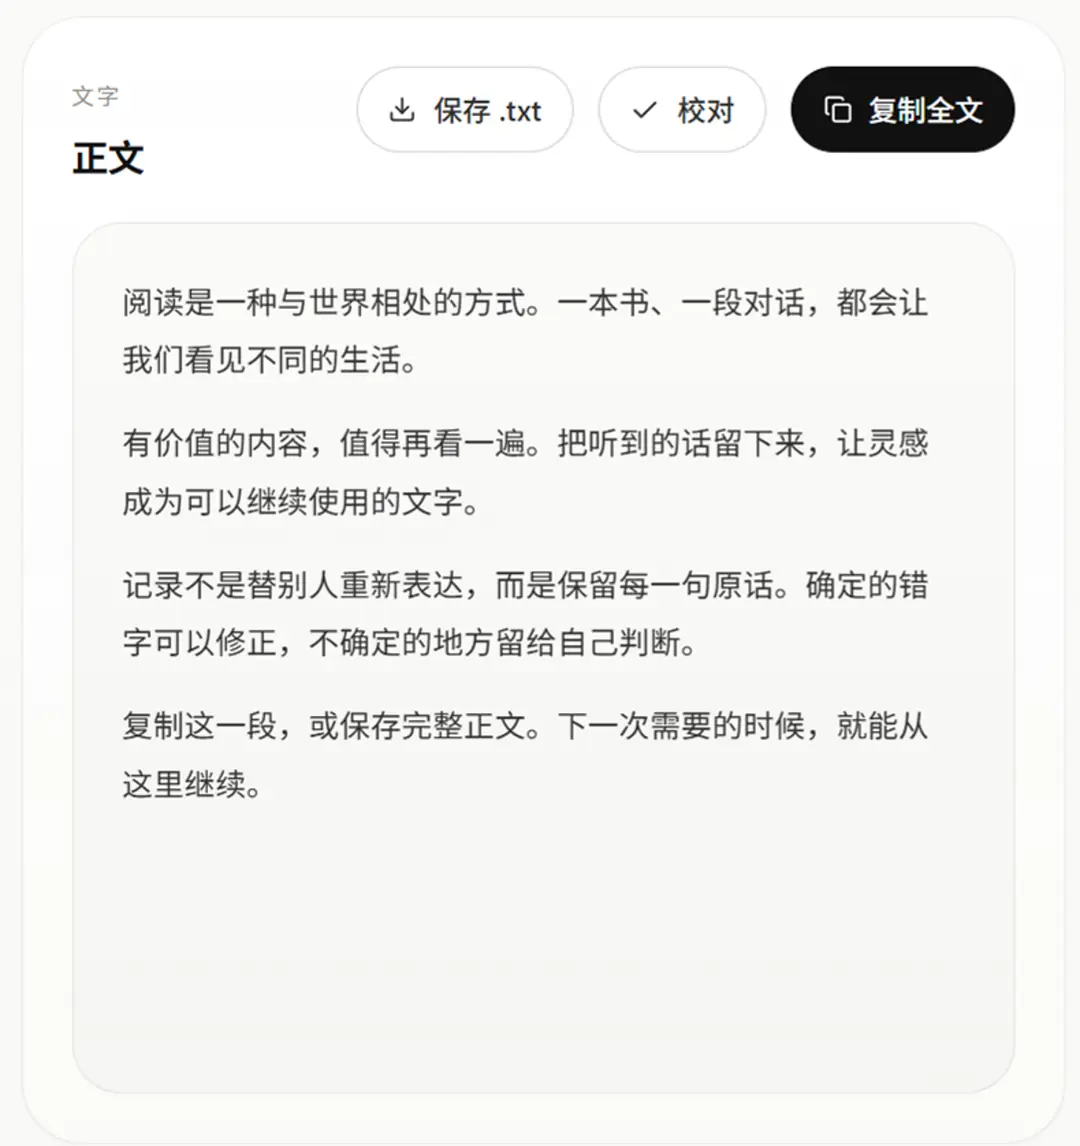
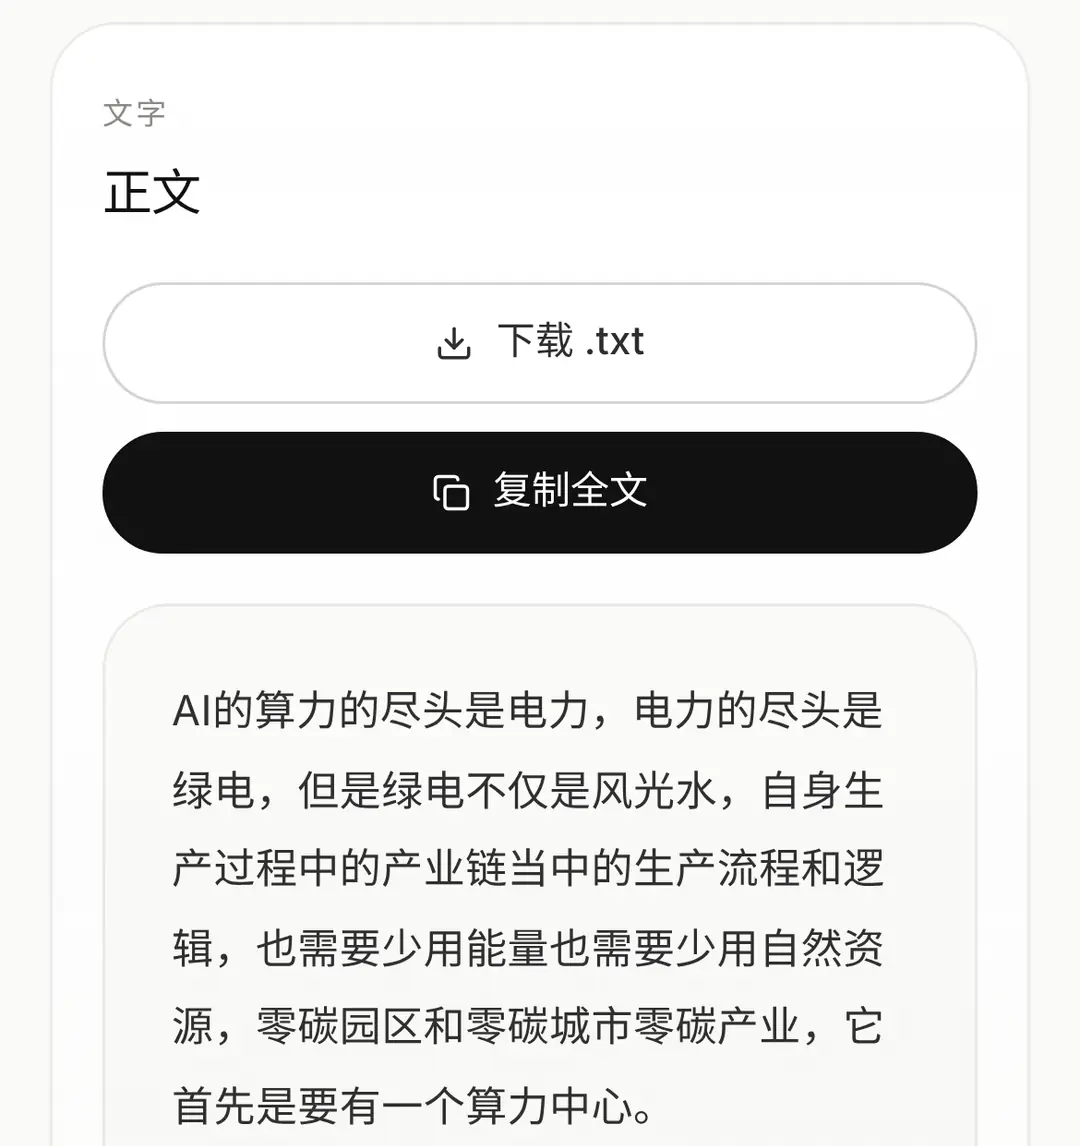
万象成文的图换成一次真实运行的结果页

diff --git a/work/wanxiang/index.html b/work/wanxiang/index.html
@@ -99,7 +99,7 @@
 <p>以前<wbr>要<wbr>先<wbr>下<wbr>完整<wbr>段原<wbr>视频<wbr>才能<wbr>转<wbr>写，<wbr>几百 MB 的<wbr>文件<wbr>会<wbr>把<wbr>整件事<wbr>拖到<wbr>超<wbr>时。<wbr>现在<wbr>先<wbr>下<wbr>音<wbr>轨、<wbr>马上<wbr>出<wbr>文字，<wbr>原<wbr>视频<wbr>在<wbr>后台<wbr>按<wbr>原画<wbr>质<wbr>补<wbr>齐。<wbr>一段 47 分钟<wbr>的 B 站<wbr>视频，<wbr>25 秒<wbr>出<wbr>文字。</p>
 <div class="sec-shot"><div class="frame prod">
 
-<span class="frame-view"><picture><source media="(max-width: 733px)" srcset="/assets/media/site-prod-wanxiang-card-1080.webp" width="1080" height="1146"><img class="frame-img" src="/assets/media/site-prod-wanxiang-1040.webp" srcset="/assets/media/site-prod-wanxiang-1040.webp 1040w, /assets/media/site-prod-wanxiang-1560.webp 1560w" sizes="1040px" width="1040" height="784" alt="万象成文的结果页：左边是整理好的正文，可以复制、保存、校对；右边是可以预览和保存的原视频" loading="lazy" decoding="async"></picture></span>
+<span class="frame-view"><picture><source media="(max-width: 733px)" srcset="/assets/media/site-prod-wanxiang-card-1080.webp" width="1080" height="1146"><img class="frame-img" src="/assets/media/site-prod-wanxiang-1040.webp" srcset="/assets/media/site-prod-wanxiang-1040.webp 1040w, /assets/media/site-prod-wanxiang-2040.webp 2040w" sizes="1040px" width="1040" height="697" alt="万象成文的结果页：左边是转写出的正文，可以复制、下载；右边是可以播放和下载的视频" loading="lazy" decoding="async"></picture></span>
 </div></div>
 </section>
 <section class="case-sec" id="s4" aria-labelledby="s4-title">

diff --git a/index.html b/index.html
@@ -114,7 +114,7 @@
 </div>
 <a class="frame prod" href="/work/wanxiang/">
 <span class="visually-hidden">怎么做的 万象成文</span>
-<span class="frame-view"><picture><source media="(max-width: 733px)" srcset="/assets/media/site-prod-wanxiang-card-1080.webp" width="1080" height="1146"><img class="frame-img" src="/assets/media/site-prod-wanxiang-1040.webp" srcset="/assets/media/site-prod-wanxiang-1040.webp 1040w, /assets/media/site-prod-wanxiang-1560.webp 1560w" sizes="1040px" width="1040" height="784" alt="万象成文的结果页：左边是整理好的正文，右边是原视频" loading="lazy" decoding="async"></picture></span>
+<span class="frame-view"><picture><source media="(max-width: 733px)" srcset="/assets/media/site-prod-wanxiang-card-1080.webp" width="1080" height="1146"><img class="frame-img" src="/assets/media/site-prod-wanxiang-1040.webp" srcset="/assets/media/site-prod-wanxiang-1040.webp 1040w, /assets/media/site-prod-wanxiang-2040.webp 2040w" sizes="1040px" width="1040" height="697" alt="万象成文处理一段 52 秒中文视频的结果：左边是转写出的正文，右边是可以播放和下载的视频" loading="lazy" decoding="async"></picture></span>
 </a>
 <blockquote class="story"><p class="story-label">为什么做</p><p>我想<wbr>把<wbr>一期<wbr>两<wbr>个<wbr>小时<wbr>的<wbr>小宇宙<wbr>播<wbr>客<wbr>转<wbr>成<wbr>文字，<wbr>拿去<wbr>跟 AI 聊。<wbr>试<wbr>了<wbr>几个<wbr>小<wbr>程序，<wbr>要么<wbr>太长<wbr>转<wbr>不动，<wbr>要么<wbr>太<wbr>贵。<wbr>我不会<wbr>写<wbr>代码，<wbr>那天<wbr>晚上，<wbr>还是<wbr>按下<wbr>了 Win<wbr>+<wbr>R。</p></blockquote>
 <div class="show-foot">

diff --git a/en/work/wanxiang/index.html b/en/work/wanxiang/index.html
@@ -99,7 +99,7 @@
 <p>It used to download the whole original video before transcribing, and a few hundred megabytes could stall the job until it timed out. Now it fetches the audio, delivers the text at once, and completes the original video, at full quality, in the background. A 47-minute Bilibili video: text in 25 seconds.</p>
 <div class="sec-shot"><div class="frame prod">
 
-<span class="frame-view"><picture><source media="(max-width: 733px)" srcset="/assets/media/site-prod-wanxiang-card-1080.webp" width="1080" height="1146"><img class="frame-img" src="/assets/media/site-prod-wanxiang-1040.webp" srcset="/assets/media/site-prod-wanxiang-1040.webp 1040w, /assets/media/site-prod-wanxiang-1560.webp 1560w" sizes="1040px" width="1040" height="784" alt="The Wanxiang result page (in Chinese): the finished text on the left, ready to copy, save or proofread; the original video on the right" loading="lazy" decoding="async"></picture></span>
+<span class="frame-view"><picture><source media="(max-width: 733px)" srcset="/assets/media/site-prod-wanxiang-card-1080.webp" width="1080" height="1146"><img class="frame-img" src="/assets/media/site-prod-wanxiang-1040.webp" srcset="/assets/media/site-prod-wanxiang-1040.webp 1040w, /assets/media/site-prod-wanxiang-2040.webp 2040w" sizes="1040px" width="1040" height="697" alt="The Wanxiang result page (in Chinese): the transcribed text on the left, ready to copy or download; the playable video on the right" loading="lazy" decoding="async"></picture></span>
 </div></div>
 </section>
 <section class="case-sec" id="s4" aria-labelledby="s4-title">

diff --git a/en/index.html b/en/index.html
@@ -114,7 +114,7 @@
 </div>
 <a class="frame prod" href="/en/work/wanxiang/">
 <span class="visually-hidden">How it was made Wanxiang</span>
-<span class="frame-view"><picture><source media="(max-width: 733px)" srcset="/assets/media/site-prod-wanxiang-card-1080.webp" width="1080" height="1146"><img class="frame-img" src="/assets/media/site-prod-wanxiang-1040.webp" srcset="/assets/media/site-prod-wanxiang-1040.webp 1040w, /assets/media/site-prod-wanxiang-1560.webp 1560w" sizes="1040px" width="1040" height="784" alt="The Wanxiang result page (in Chinese): the finished text on the left, the original video on the right" loading="lazy" decoding="async"></picture></span>
+<span class="frame-view"><picture><source media="(max-width: 733px)" srcset="/assets/media/site-prod-wanxiang-card-1080.webp" width="1080" height="1146"><img class="frame-img" src="/assets/media/site-prod-wanxiang-1040.webp" srcset="/assets/media/site-prod-wanxiang-1040.webp 1040w, /assets/media/site-prod-wanxiang-2040.webp 2040w" sizes="1040px" width="1040" height="697" alt="Wanxiang after a 52-second Mandarin video (in Chinese): the transcribed text on the left, the playable video on the right" loading="lazy" decoding="async"></picture></span>
 </a>
 <blockquote class="story"><p class="story-label">Why I built it</p><p>I wanted to turn a two-hour podcast episode into text so I could discuss it with an AI. The apps I tried either couldn’t handle the length or cost too much. I couldn’t code. That night I pressed Win+R anyway.</p></blockquote>
 <div class="show-foot">

diff --git a/CLAUDE.md b/CLAUDE.md
@@ -153,6 +153,7 @@
   - 首页：标题「我用 AI 做东西，也把做法分享出来」；经历第一条写奥普智能科技、钉钉迁飞书、评论打标（每天四五个小时 → 10 分钟），副句「做内容出身，做过乙方交付，也在甲方把 AI 用进真实业务」。
   - AI Signal：首页卡片改为真文字，数据来自 AI Signal 每天发布的 `latest.json`（ai-signal bb90e6c），本站定时任务每天 10:07 起取。
   - 清理：删掉不再使用的画廊和截图（829KB）。
+  - 万象成文：他说官网演示右边的视频「很虚假」（旧演示用预置示例）。我在云端把万象成文真跑了一次：上传中国新闻社一段 52 秒的中文视频（Wikimedia Commons，CC BY 3.0，署名写在万象成文官网演示下面），SenseVoice 在 CPU 上 5.3 秒转写完；官网演示、README 截图（Audio2Text 465b92e）和本站首页、作品页的万象成文图都换成这次运行的真实画面。画面里有讲者正脸：他是公开活动上演讲的公众人物，素材许可允许使用，和「摄影不放他人正脸」（那条管的是他自己拍的照片）不冲突。
   - 影片仓库改名：他在 GitHub 把 `laibuji-aini` 改成 `too-late-to-love-you`（他说仓库名不能用拼音）。项目网站随仓库名换地址，旧地址 404，所以本站在 `laibuji-aini/` 下放了三个跳转页（中文、英文、制作记录），微信里转发过的旧链接仍能打开。
 
 ## 否决过的方案
